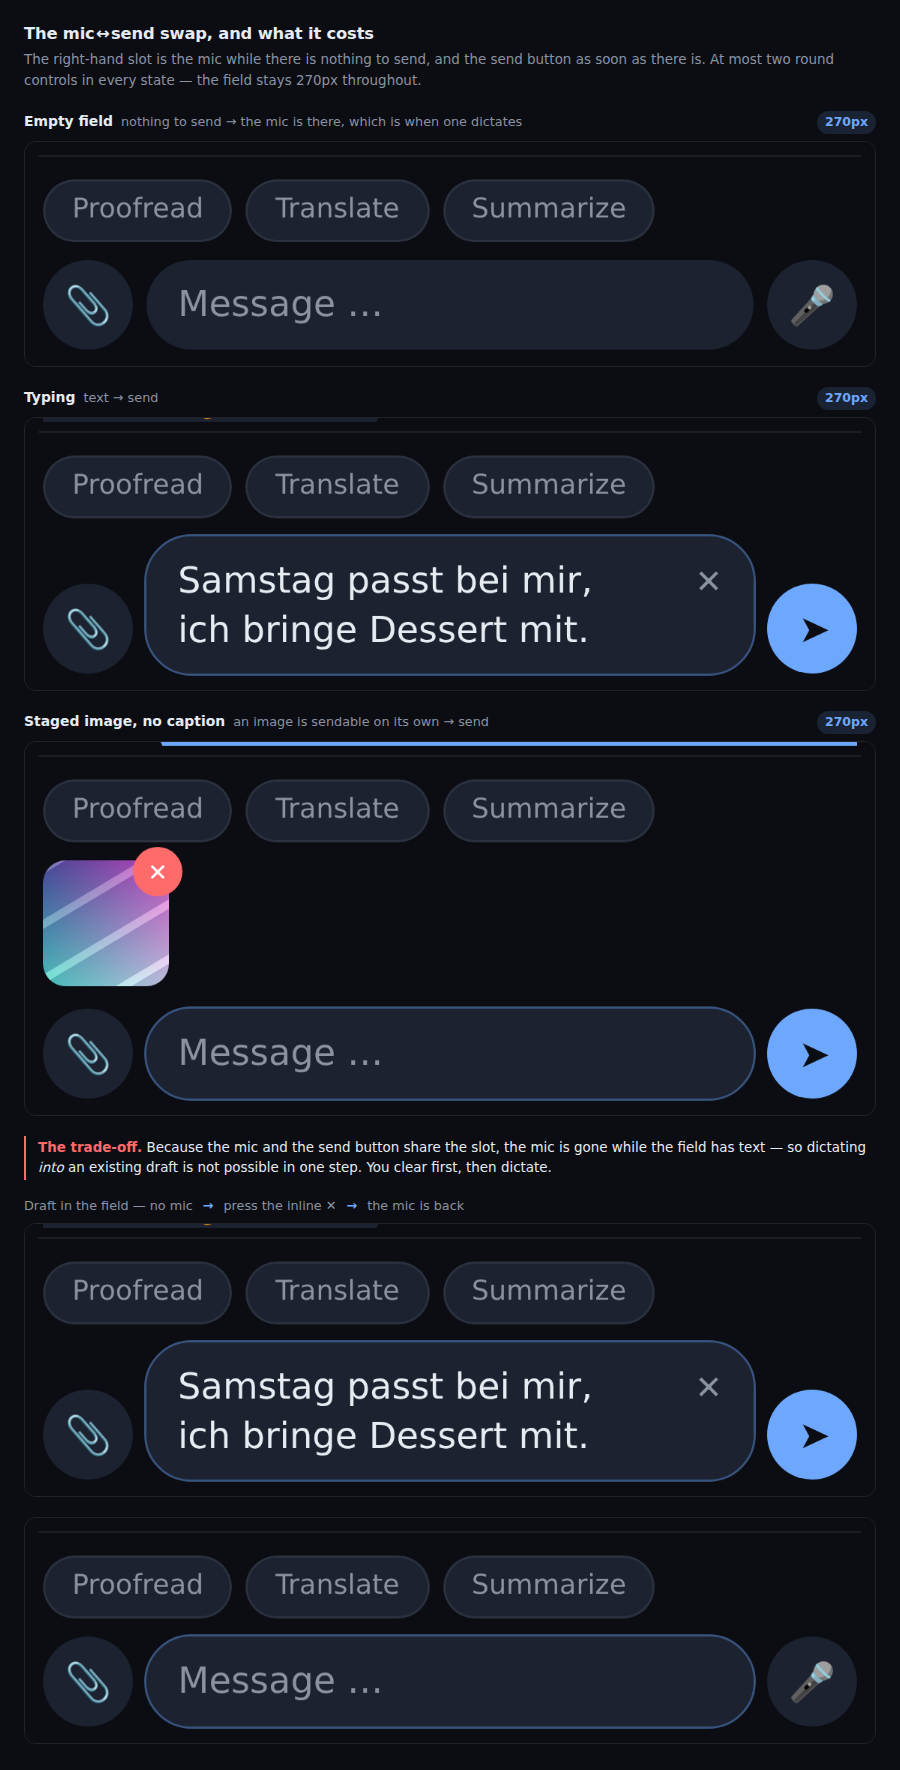
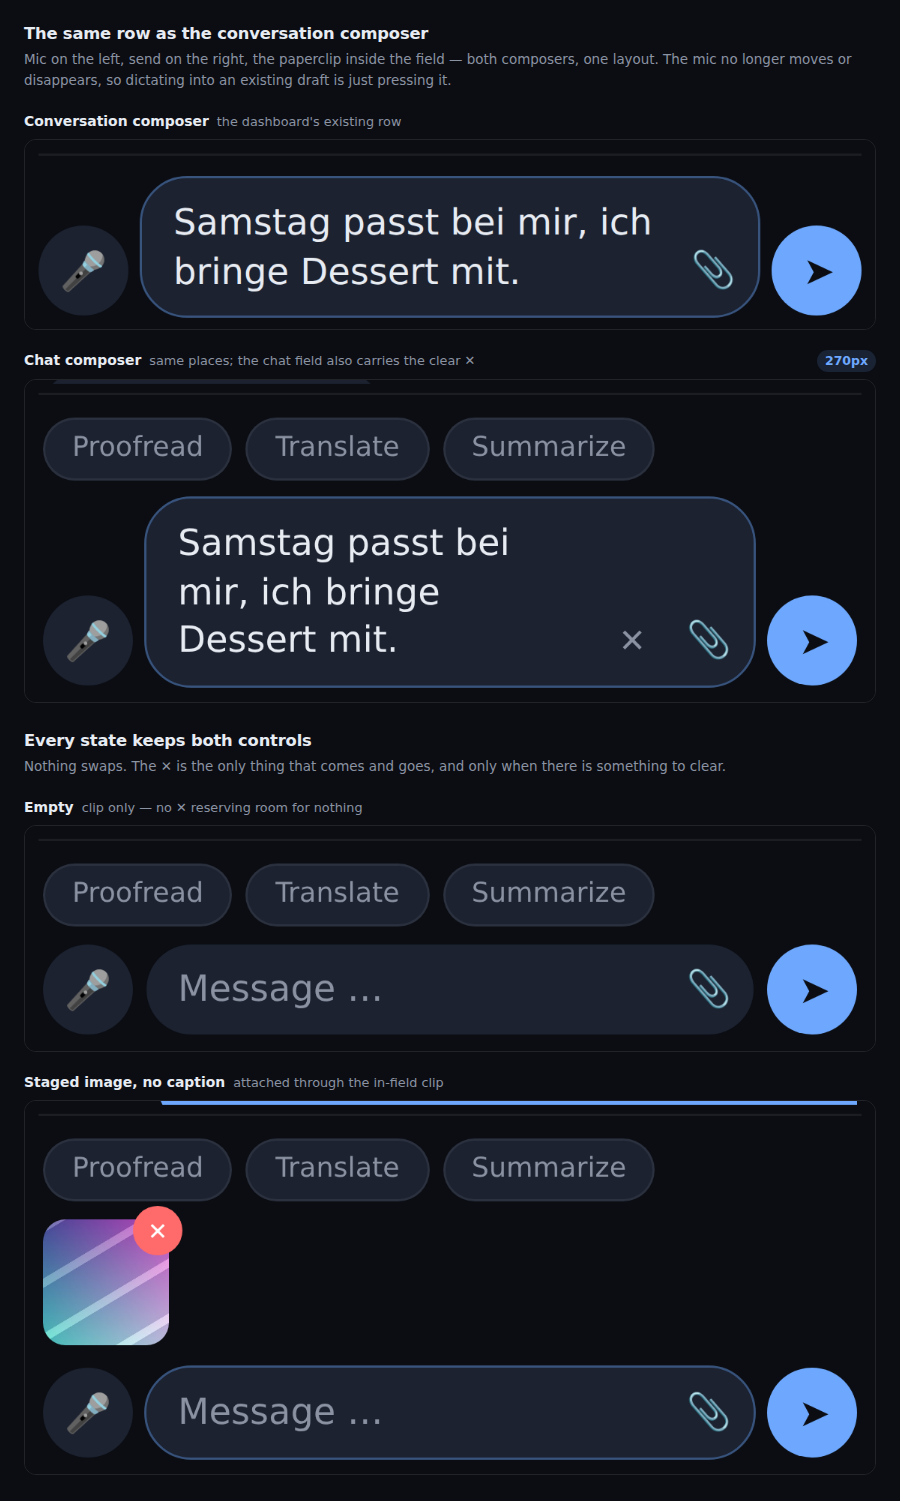
fix(webapp): the chat composer is the conversation composer's row
Review point, and correct: the mic on the right was inconsistent with the
conversation composer, where the mic is always on the left and send always on
the right — and that composer already tucks its attach control inside the text
field. Two composers on one dashboard should not teach two different places to
reach for the same three affordances.

So the chat row becomes that row: mic left, send right, both present in every
state, paperclip inside the field. The mic↔send swap goes away entirely, and
with it the trade-off it cost — the mic no longer disappears while the field
has text, so dictating into an existing draft is just pressing it.

The chat field carries one control the conversation field does not, the clear
✕. It sits beside the clip rather than above it: both are anchored to the
field's bottom edge, so stacking them would put one on top of the other in a
one-line field. The ✕ takes the inner position, nearer the text it acts on, and
the textarea's right padding tracks whichever controls are actually shown —
an empty field holds no room for a ✕ that is not there.

Measured on a 390px phone with the same message, field width and the room the
text itself gets:

  main            178px field, 120px text, 4 lines
  the swap        270px field, 212px text, 2 lines
  this            270px field, 182px text, 3 lines

So it costs 30px against the swap version: the ✕ and the clip both reserve
padding inside the field, where before only one of them did. That is the price
[…]

diff --git a/webapp/components/chat-page.js b/webapp/components/chat-page.js
@@ -756,14 +756,18 @@ class RetinueChatPage extends HTMLElement {
     return `<div class="img-previews" data-previews>${items}</div>`;
   }
 
-  // The paperclip mirrors the conversations composer's affordance (a label
-  // over a hidden file input) as a row button — images only, since that is
-  // what the send endpoint carries. One control, not two: the phone's own
-  // file chooser already offers the camera among its sources, and on a narrow
-  // screen every round button in the row is width taken from the text field,
-  // which is what the user is actually looking at while writing.
-  _attachBtnHtml() {
-    return `<label class="attach-btn" title="Attach images" aria-label="Attach images">` +
+  // The paperclip, tucked INSIDE the text field exactly as the conversations
+  // composer tucks its own: a label over a hidden file input, images only since
+  // that is what the send endpoint carries. Inside rather than beside, because
+  // a round control in the row costs the field 46px of a phone's width while
+  // one inside costs only padding — and because the two composers should not
+  // teach two different places to look for the same affordance.
+  //
+  // One control, not two: the phone's file chooser already offers the camera
+  // among its sources, so a separate camera button buys a shortcut at the price
+  // of a whole control's width.
+  _clipHtml() {
+    return `<label class="clip" title="Attach images" aria-label="Attach images">` +
       `<input type="file" hidden multiple accept="image/*" data-attach>` +
       `<span aria-hidden="true">&#128206;</span></label>`;
   }
@@ -800,43 +804,27 @@ class RetinueChatPage extends HTMLElement {
       ? `<button type="button" class="clear-inline" data-clear ` +
         `title="Clear message" aria-label="Clear message">&#10005;</button>`
       : '';
-    const fieldCls = `field${withClear ? ' has-clear' : ''}${value ? ' has-text' : ''}`;
+    // Both composers are the dashboard conversation composer's row: mic on the
+    // left, send on the right, and what belongs inside the field lives inside
+    // it. Keeping the two round controls in their fixed places is the point —
+    // the mic is where the mic always is, whatever the field holds, so
+    // dictating into an existing draft is just pressing it. The chat field
+    // additionally carries the clear ✕ and the paperclip; the companion's
+    // carries neither (it is Ara's own thread, and it never fights for width).
+    const inField = isChat ? clearBtn + this._clipHtml() : clearBtn;
+    const fieldCls = `field${withClear ? ' has-clear' : ''}` +
+      `${isChat ? ' has-clip' : ''}${value ? ' has-text' : ''}`;
     const field = `<div class="${fieldCls}" data-field>` +
       `<textarea rows="1" placeholder="${esc(placeholder)}" aria-label="${esc(placeholder)}" ` +
-      `autocomplete="off">${esc(value)}</textarea>` + clearBtn + `</div>`;
-    // The companion row is the dashboard conversation composer's row, verbatim:
-    // mic left, field, send right — it carries no attach control and its pane
-    // is never the one fighting for width.
-    if (!isChat) {
-      return `<form class="row" data-composer="${target}">` + micBtn + field + sendBtn + `</form>`;
-    }
-    // The chat row keeps at most two round controls, because each one costs the
-    // text field 46px of a phone's width: the paperclip on the left, and on the
-    // right ONE button that is the mic while there is nothing to send and the
-    // send button as soon as there is (the messenger idiom — dictation is
-    // offered exactly when the field is empty, which is when one dictates).
-    // Both are rendered and swapped by class, so the switch never rebuilds the
-    // row and can never cost the field its focus or the phone its keyboard.
-    // Without a usable recorder there is nothing to swap and send stands alone.
-    const swap = micBtn ? ' swap' : '';
-    const content = this._hasSendable(value) ? ' has-content' : '';
-    return `<form class="row${swap}${content}" data-composer="${target}">` +
-      this._attachBtnHtml() + field + micBtn + sendBtn + `</form>`;
+      `autocomplete="off">${esc(value)}</textarea>` + inField + `</div>`;
+    return `<form class="row" data-composer="${target}">` +
+      micBtn + field + sendBtn + `</form>`;
   }
 
   // What makes the chat's send button the right control to show: words, or a
   // staged image on its own (an image needs no caption).
   _hasSendable(text) {
     return !!text || this._outImages.length > 0;
-  }
-
-  // Keep the swap in step with the field after any change to either input —
-  // typing, the clear ✕, a send, an adopted draft, staged or removed images.
-  _syncSendSwap() {
-    const form = this.shadowRoot.querySelector('[data-composer="chat"]');
-    if (!form) return; // a recording or status row holds the composer
-    const input = form.querySelector('textarea');
-    form.classList.toggle('has-content', this._hasSendable(input ? input.value : ''));
   }
 
   // Companion messages reuse the conversation thread's visual language (same
@@ -1083,7 +1071,6 @@ class RetinueChatPage extends HTMLElement {
         this._compDraft = input.value;
       }
       field.classList.toggle('has-text', !!input.value);
-      if (isChat) this._syncSendSwap();
       grow();
     });
     if (isChat) {
@@ -1106,7 +1093,6 @@ class RetinueChatPage extends HTMLElement {
         this._draft = '';
         this._setDraftByAra(false);
         field.classList.remove('has-text');
-        this._syncSendSwap();
         grow();
         input.focus();
         this._saveDraft();
@@ -1436,9 +1422,6 @@ class RetinueChatPage extends HTMLElement {
         const next = this.shadowRoot.querySelector('[data-composer="chat"] textarea');
         if (next) { try { next.focus(); } catch (_e) { /* ignore */ } }
       }
-    } else {
-      // Nothing left to send: the row's one right-hand button is the mic again.
-      this._syncSendSwap();
     }
     // Order matters server-side: let a save fired by the pre-tap blur settle
     // before the send clears the draft.
@@ -1861,20 +1844,15 @@ const CSS = `
                background: rgba(110, 168, 254, .12); color: var(--accent, #6ea8fe);
                font-size: .74rem; font-weight: 600; }
   .row { display: flex; gap: 6px; align-items: flex-end; }
-  /* Mic and send share the row's right-hand slot, one shown at a time: every
-     round control here costs the text field 46px, and on a phone that is the
-     difference between a readable draft and three words a line. Display, not
-     visibility — a hidden control must give its width back. */
-  .row.swap:not(.has-content) .send { display: none; }
-  .row.swap.has-content .mic { display: none; }
-  /* The image attach control: a label over a hidden file input, in the mic
-     button's round dress so the row reads as one family. */
-  .attach-btn { display: inline-flex; align-items: center; justify-content: center;
-                width: 40px; height: 40px; flex: none; border-radius: 50%;
-                background: var(--card-2, #1c2230); color: var(--fg, #e7ebf2);
-                font-size: 1.05rem; cursor: pointer; user-select: none;
-                -webkit-tap-highlight-color: transparent; }
-  .attach-btn:hover { background: rgba(110, 168, 254, .2); }
+  /* The attach control, inside the field and dressed exactly as the
+     conversations composer's clip — same size, same corner, same hover. Two
+     composers, one place to reach for a paperclip. */
+  .clip { position: absolute; right: 3px; bottom: 3px; display: inline-flex;
+          align-items: center; justify-content: center; height: 34px; width: 34px;
+          border-radius: 50%; background: transparent; color: var(--muted, #8b93a3);
+          cursor: pointer; font-size: 1rem; user-select: none;
+          -webkit-tap-highlight-color: transparent; }
+  .clip:hover { background: rgba(110, 168, 254, .2); }
   /* Staged images: removable thumbnails riding above the input row. */
   .img-previews { display: flex; flex-wrap: wrap; gap: 8px; margin: 2px 0 10px; }
   .imgp { position: relative; }
@@ -1904,14 +1882,28 @@ const CSS = `
   /* The inline clear: docked in the field's top-right corner, shown only
      while there is text (see _composerRowHtml for the placement rationale);
      the .has-text padding keeps text from wrapping under it. */
-  .clear-inline { position: absolute; top: 5px; right: 5px; width: 30px; height: 30px;
+  /* The clear ✕ sits at the field's bottom-right too, immediately left of the
+     clip — both anchored to the same edge and the same baseline, so a one-line
+     field cannot stack them on top of each other. It is only there while there
+     is something to clear, and the textarea's right padding tracks whichever
+     of the two is actually present. */
+  .clear-inline { position: absolute; bottom: 5px; right: 5px; width: 30px; height: 30px;
                   display: inline-flex; align-items: center; justify-content: center;
                   border: 0; border-radius: 50%; padding: 0; cursor: pointer;
                   background: transparent; color: var(--muted, #8b93a3); font-size: .9rem;
                   -webkit-tap-highlight-color: transparent; }
+  /* Beside the clip, not above it: both are anchored to the field's bottom
+     edge, so stacking them would put one on top of the other in a one-line
+     field. The ✕ takes the inner position — it acts on the text, so it sits
+     nearer to it. */
+  .field.has-clip .clear-inline { right: 39px; }
   .clear-inline:hover { color: var(--high, #ff6b6b); background: rgba(255, 107, 107, .14); }
   .field:not(.has-text) .clear-inline { display: none; }
+  /* Right padding tracks what is actually shown, so an empty field is not
+     holding room for a ✕ that is not there. */
+  .field.has-clip textarea { padding-right: 42px; }
   .field.has-clear.has-text textarea { padding-right: 44px; }
+  .field.has-clip.has-clear.has-text textarea { padding-right: 74px; }
   .attach-err { color: var(--high, #ff6b6b); font-size: .76rem; margin-bottom: 8px; }
 
   /* ── Companion pane (the conversation thread's visual language) ──────────── */

diff --git a/docs/img/chat-composer/README.md b/docs/img/chat-composer/README.md
@@ -4,19 +4,25 @@ Illustrations for the composer change in PR #185, referenced from that PR and
 kept here so the images stay reachable after the branch is gone.
 
 Both are rendered from the real component by Playwright/Chromium at 390×844
-(a phone), against the repo's own chat fixtures. The pixel figures are the text
-field's measured width in that state, not estimates.
+(a phone), against the repo's own chat fixtures. The pixel figures are measured
+off the live elements, not estimates.
 
 - **`composer-width.png`** — the same message in the same chat before and after.
-  Four round controls (mic, paperclip, camera, send) left the field 178px; two
-  leave it 270px.
-- **`composer-states.png`** — what the right-hand slot holds in each state, and
-  the trade-off the mic↔send swap costs: with text in the field the mic is gone,
-  so dictating *into* an existing draft takes a clear (✕) first.
+  Four round controls (mic, paperclip, camera, send) left the field 178px and
+  120px of room for the text itself; two leave it 270px and 182px.
+- **`composer-states.png`** — the chat composer beside the conversation
+  composer, which is the row it now matches: mic left, send right, paperclip
+  inside the field. Then the states, to show that nothing swaps — the ✕ is the
+  only control that comes and goes, and only when there is text to clear.
 
-The camera button only exists where the file input supports `capture`, which is
-true on a phone and false in desktop Chromium — so the "before" shots emulate
-that, or they would show a three-control row no phone user ever sees.
+Two things worth knowing before reshooting these:
+
+- The camera button in the "before" only exists where the file input supports
+  `capture`, which is true on a phone and false in desktop Chromium. Without
+  emulating it the before/after understates itself by a whole 46px control.
+- A degenerate test image (a few pixels square) is rejected by the composer's
+  downscale path, which is correct behaviour and not a staging bug — use a
+  realistically sized image or the staged-image shot will come out empty.
 
 Regenerate by driving the component through those states and screenshotting the
 `.composer` block; there is nothing hand-drawn here.

diff --git a/webapp/README.md b/webapp/README.md
@@ -122,11 +122,13 @@ docstring). Pieces:
   contract below), a live composer (send, shared draft, one-tap clear ✕,
   dictation, image attach with client-side downscale), quick-pattern chips,
   and the companion pane — swipe between panes on a phone, a draggable
-  splitter on a wide screen. The composer row keeps at most two round
-  controls, since each costs the text field 46px of a phone's width: the
-  paperclip (whose chooser is also the camera on a phone), and one right-hand
-  button that is the mic while there is nothing to send and the send button as
-  soon as there is. Back goes back where the chat was opened from within the
+  splitter on a wide screen. The composer row is the conversation composer's
+  row: mic on the left, send on the right, both always there, and the paperclip
+  inside the text field (whose chooser is also the camera on a phone) — one
+  layout across both surfaces, and one place to reach for each affordance.
+  Keeping only two round controls is what buys the field its width, since each
+  one costs 46px of a phone's; the chat field additionally carries the clear ✕,
+  beside the clip and only while there is something to clear. Back goes back where the chat was opened from within the
   app, and to the chats list for a chat opened cold (a notification, a
   bookmark). The open chat polls on the conversations cadence,
   appending only unseen messages, and posts the read watermark on open, on
